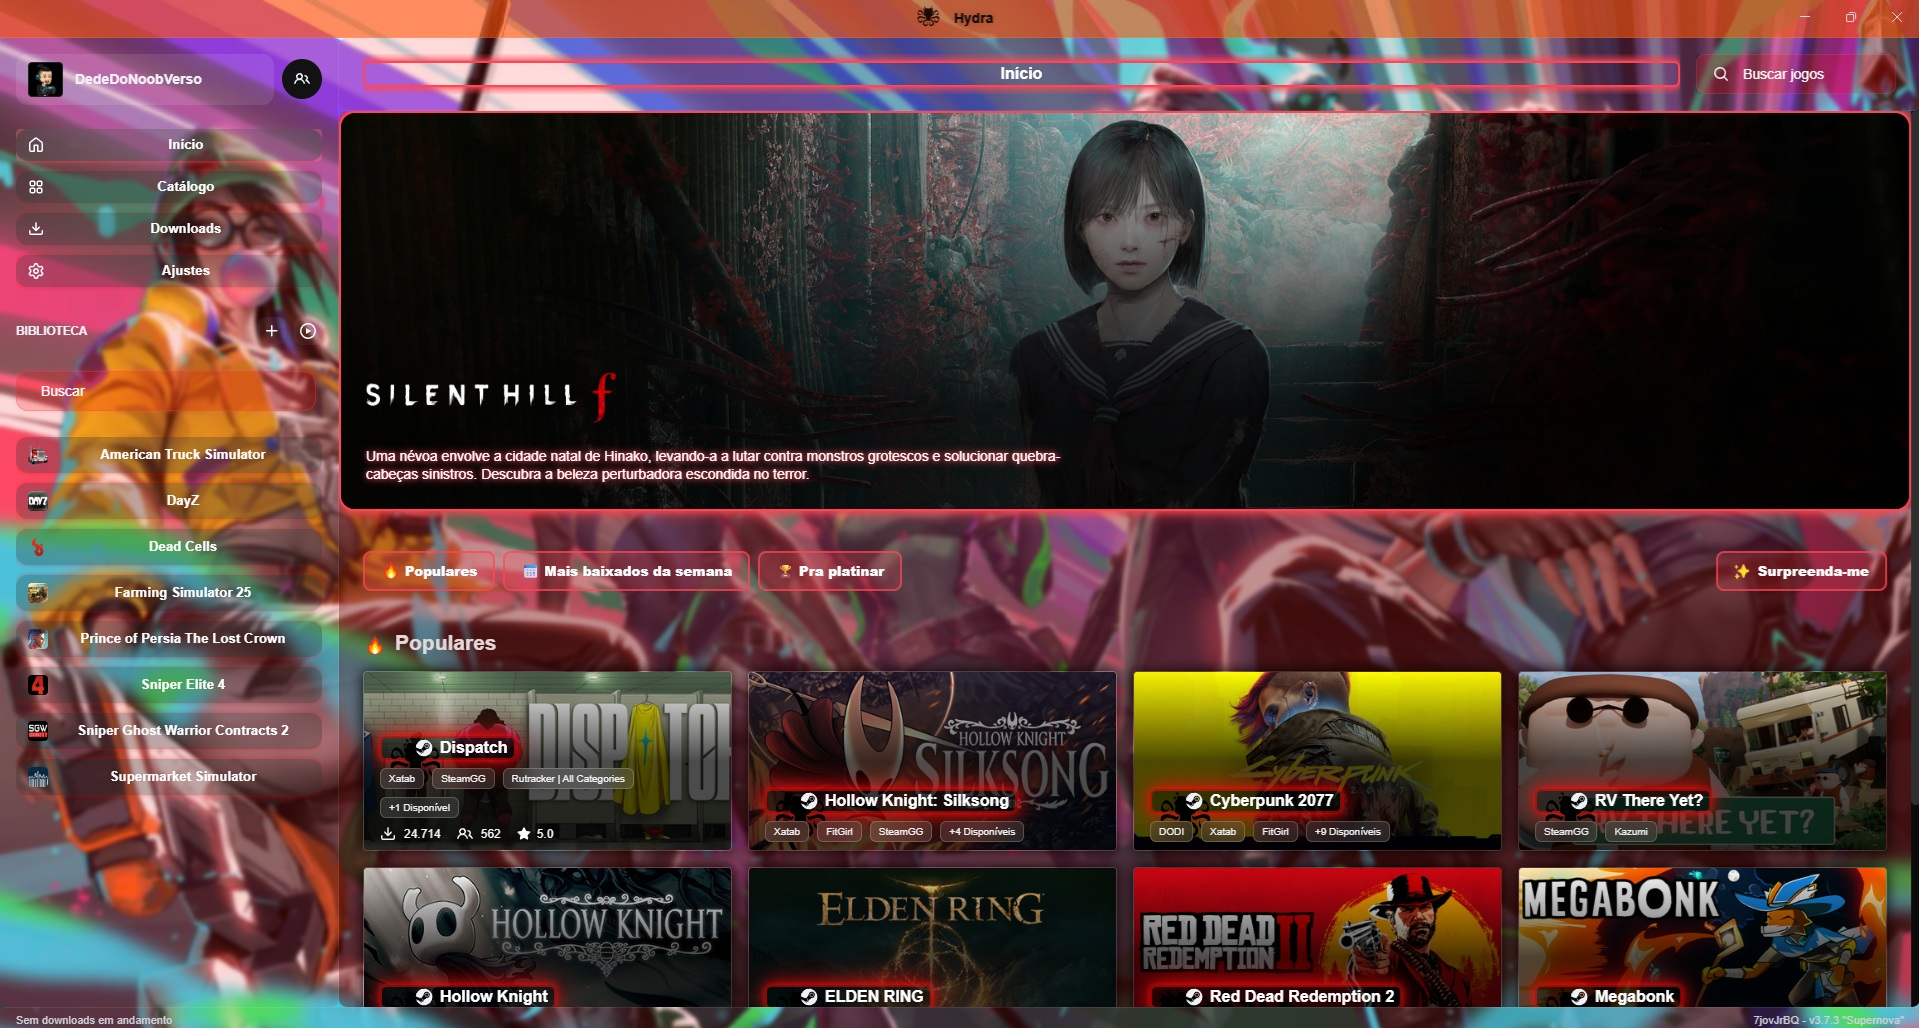
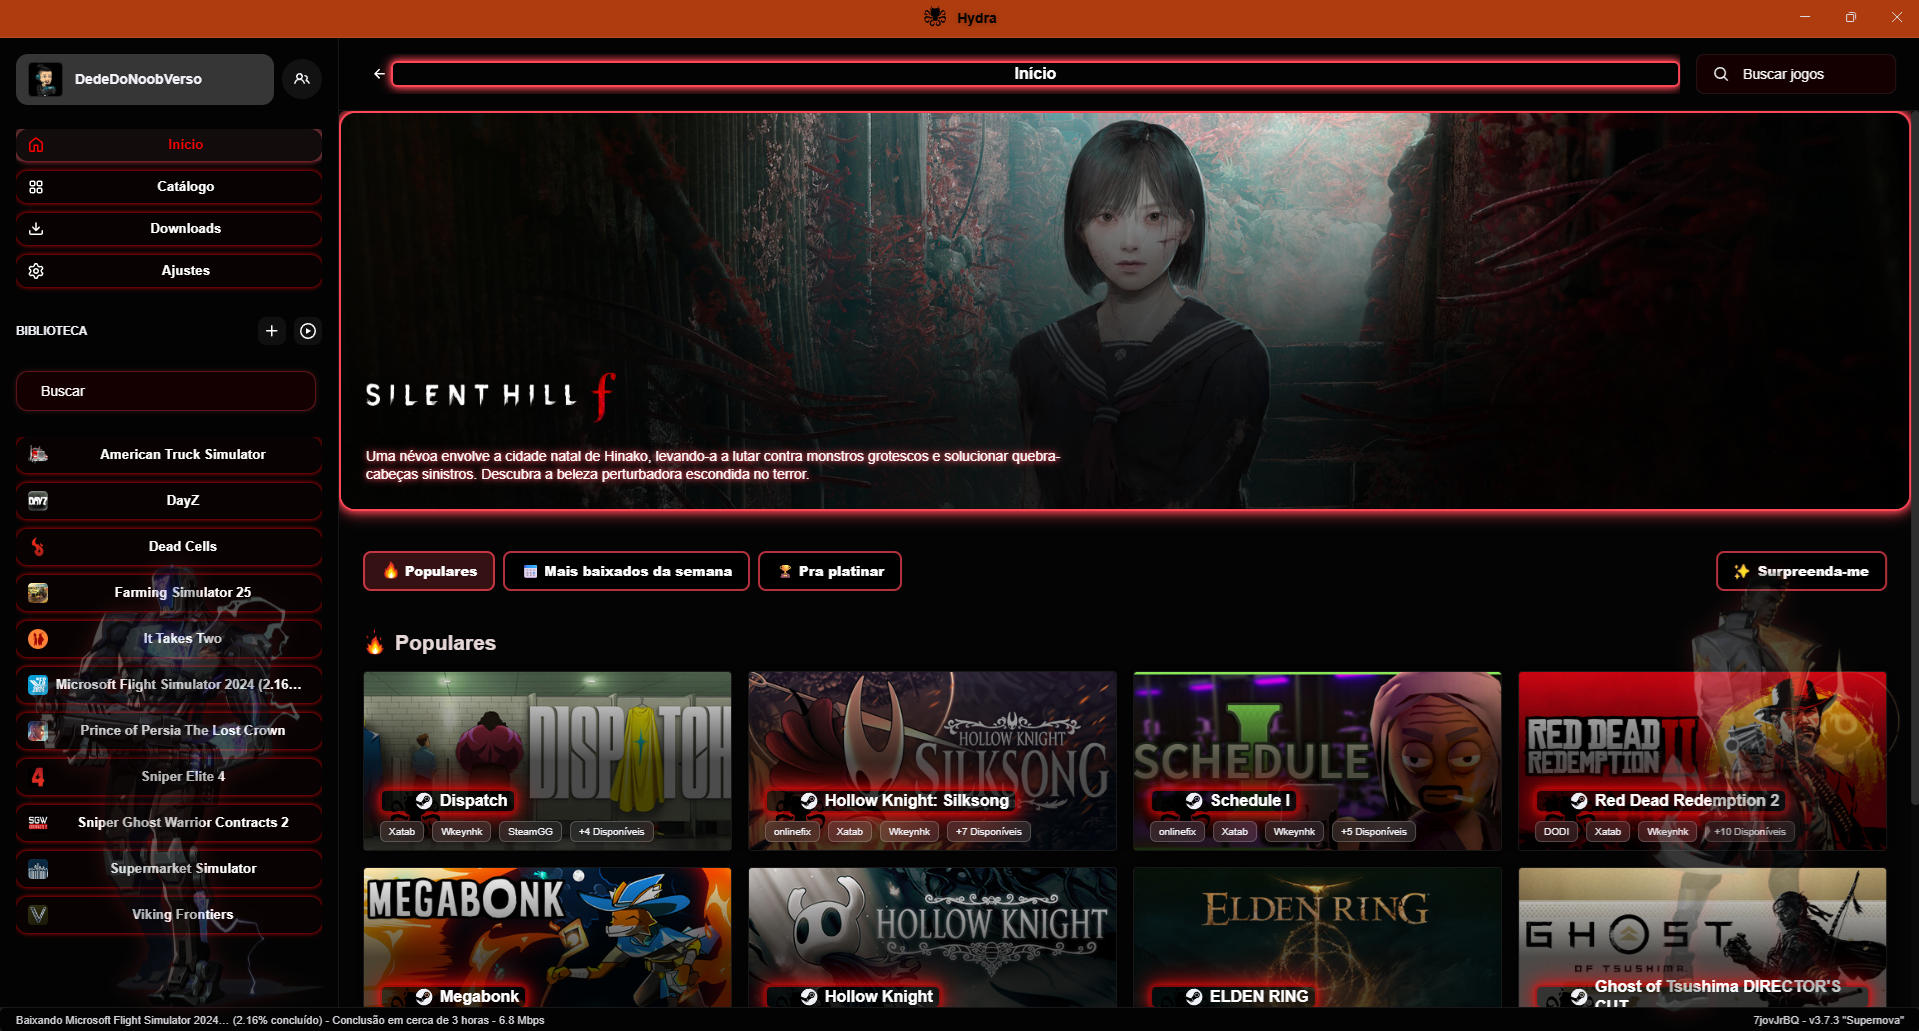
dededonoobverso

diff --git a/themes/DedeDoNoobVerso-BQ4waBRy/theme.css b/themes/DedeDoNoobVerso-BQ4waBRy/theme.css
@@ -25,12 +25,7 @@ body {
 }
 
 /* Container principal (#root) onde o fundo é aplicado */
-#root {
-    /* Cor de fallback caso a imagem não carregue (vermelho) */
-    background: #ff0000ff url("https://4kwallpapers.com/images/walls/thumbs_3t/14812.jpg")
-        no-repeat center center; /* Define o fundo: URL da imagem, sem repetição, centralizada */
-    background-size: cover; /* Garante que a imagem cubra todo o espaço */
-}
+
 
 /* ========================================================= */
 /* === EFEITO GLASS MORPHISM (VIDRO FOSCO) EM CONTAINERS === */
@@ -104,7 +99,7 @@ body {
     background-color: rgba(0, 0, 0, 0.25) !important; /* Fundo escuro semi-transparente */
     border-radius: 20px; /* Cantos bem arredondados */
     /* Cria uma sombra 3D (levanta o card) e um glow escuro */
-    box-shadow: 
+    box-shadow:
         0 4px 0 rgba(0, 0, 0, 0.7), /* Sombra preta (simula profundidade) */
         0 0 12px rgba(0, 0, 0, 1); /* Glow escuro (sombra forte) */
     transform: translateY(0); /* Posição inicial (sem estar "levantado") */
@@ -878,25 +873,25 @@ html::before {
 
 /* Menu lateral (botões) */
 .sidebar__menu-item-button {
-    background-color: rgba(0, 0, 0, 0.65) !important; /* escurece o fundo */
+    background-color: rgba(0, 0, 0, 0.85) !important; /* escurece o fundo */
     color: #fff !important;
 }
 
 /* Hover - mantém contraste */
 .sidebar__menu-item:hover .sidebar__menu-item-button {
-    background-color: rgba(0, 0, 0, 0.85) !important;
+    background-color: rgba(0, 0, 0, 1) !important;
 }
 
 /* Botões outline do conteúdo principal */
 .container__content .button--outline {
-    background-color: rgba(0, 0, 0, 0.55) !important;
+    background-color: rgba(0, 0, 0, 1) !important;
 }
 
 /* Cards de jogos */
 .settings-download-sources__item,
 .download-group__item,
 .game-item {
-    background-color: rgba(0, 0, 0, 0.75) !important; /* mais sólido */
+    background-color: rgba(0, 0, 0, 1) !important; /* mais sólido */
 }
 
 /* Campos da loja e modais */
@@ -904,7 +899,7 @@ html::before {
 .theme-store-main,
 .theme-store-overlay,
 .modal {
-    background: rgba(0, 0, 0, 0.55) !important;
+    background: rgba(0, 0, 0, 1) !important;
 }
 
 /* HUD principal */
@@ -912,6 +907,6 @@ html::before {
 .container__content,
 .bottom-panel,
 .sidebar {
-    background: rgba(0, 0, 0, 0.55) !important;
+    background: rgba(0, 0, 0, 0.88) !important;
     backdrop-filter: blur(5px) !important;
 }
